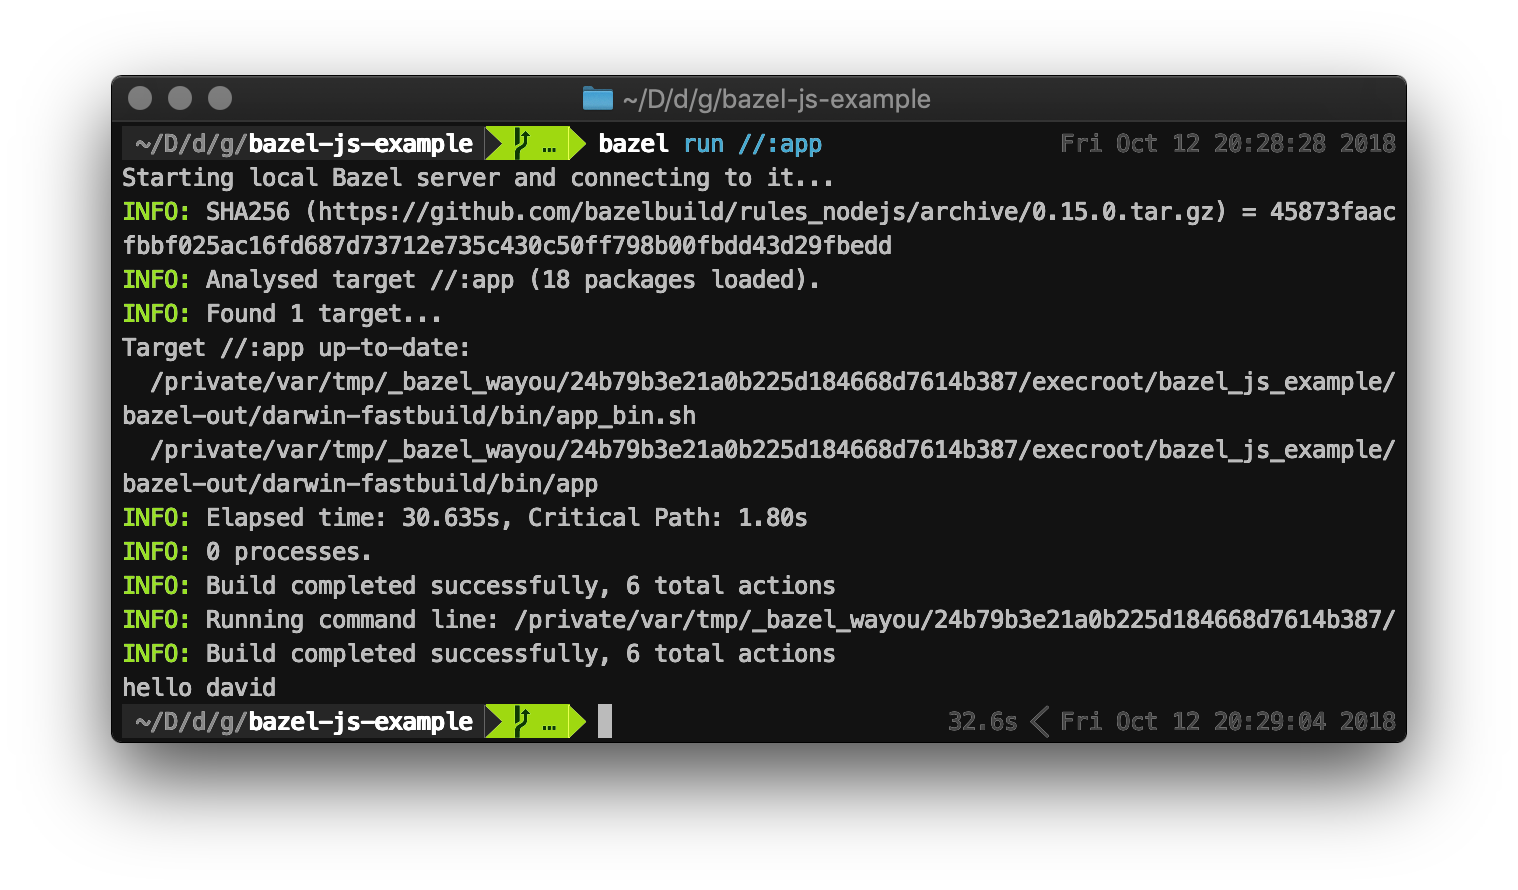
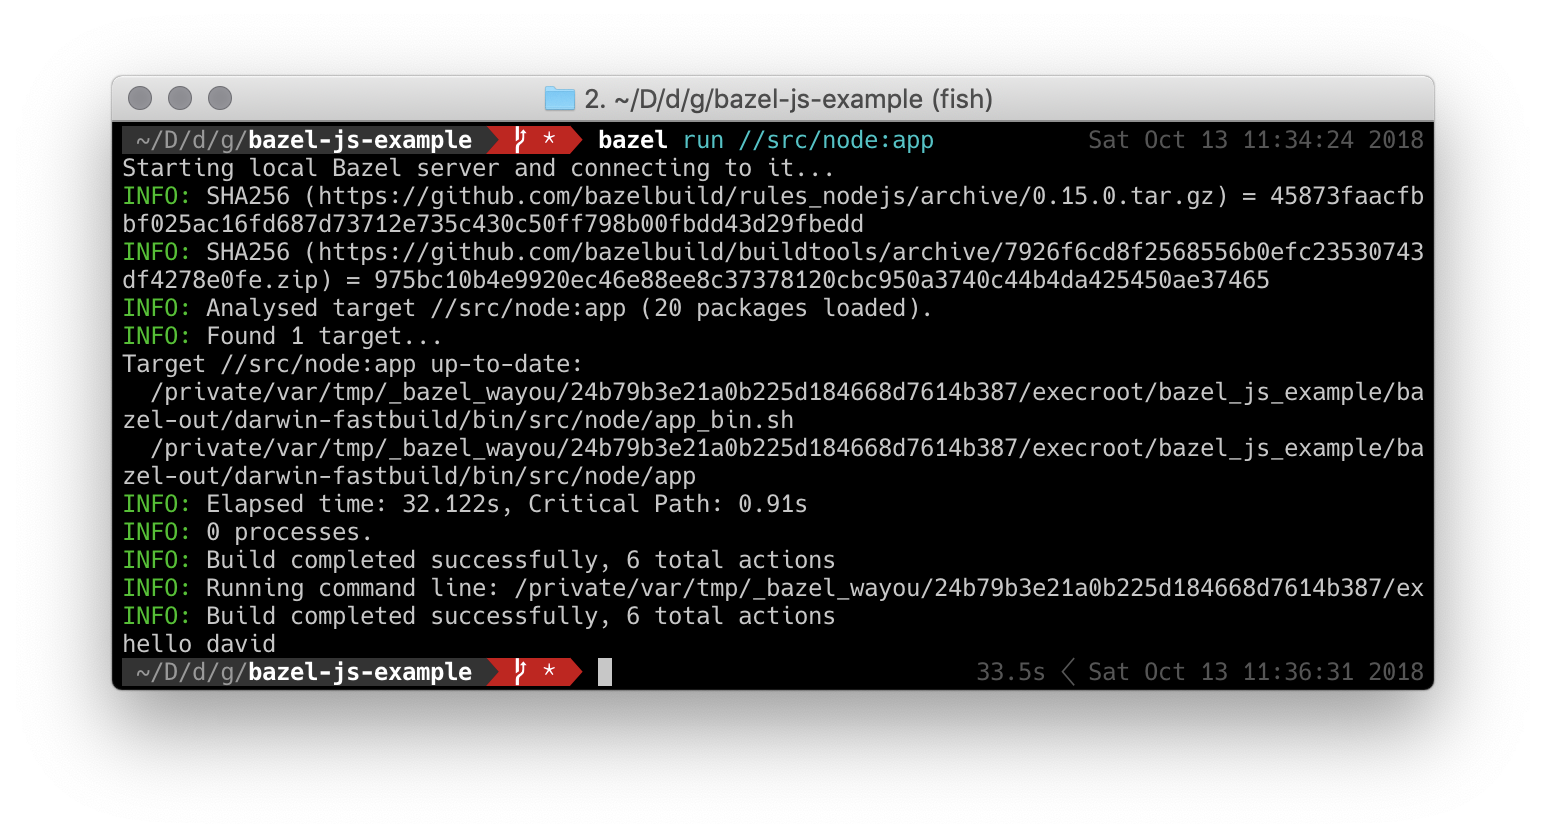
doc: update example and screenshot

Changed region(s): [[0.0619, 0.0621, 0.9598, 0.8998]]

diff --git a/README.md b/README.md
@@ -25,8 +25,12 @@ Following the [official guide](https://docs.bazel.build/versions/master/install.
 
 ## Runnging the examples
 
+Run `bazel query ...` for available targets.
+
+For example, running the nodejs binary example:
+
 ```bash
-$ bazel run //:app
+$ bazel run //src/node:app
 ```
 
 If everything goes well, it will print `hello, {name}`.
